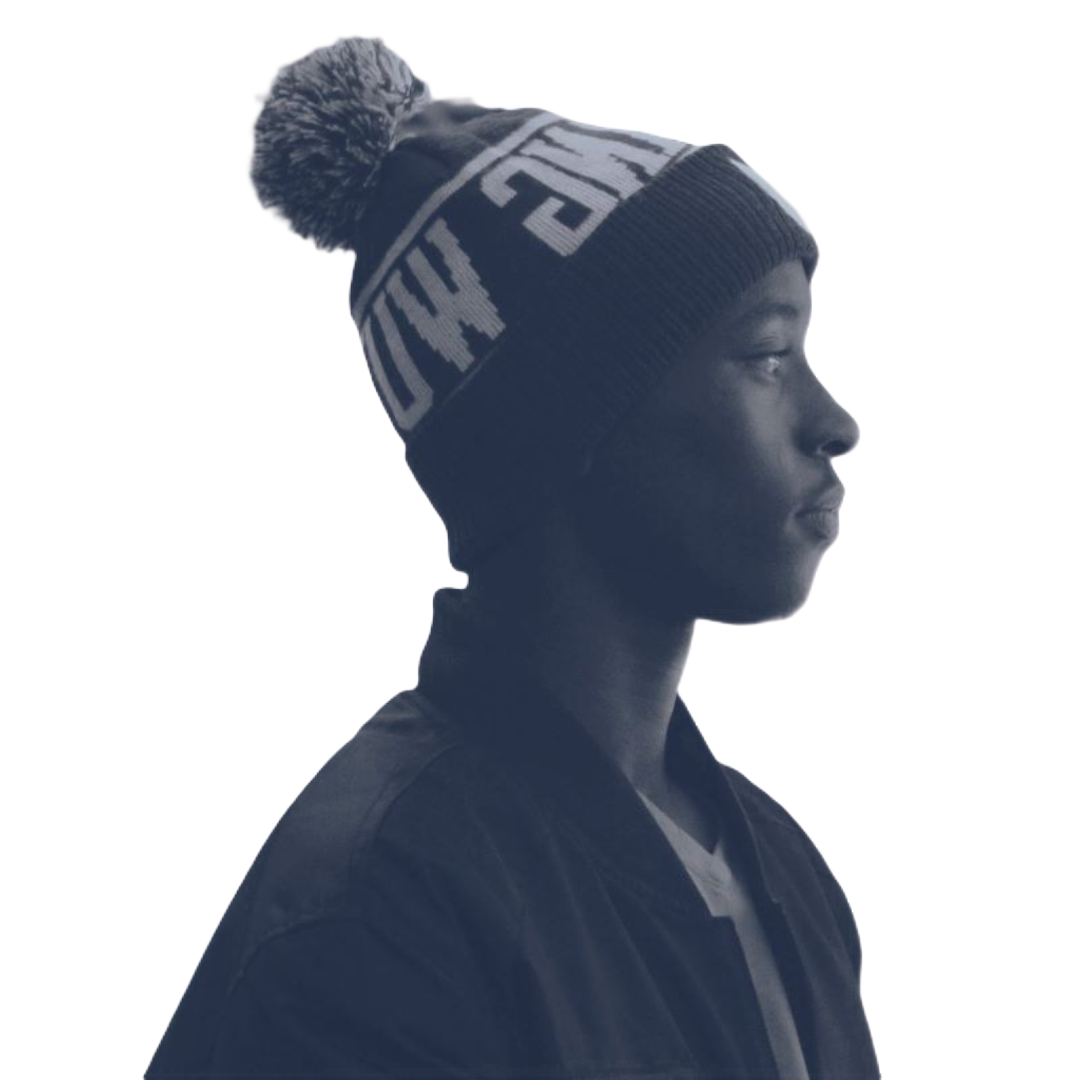
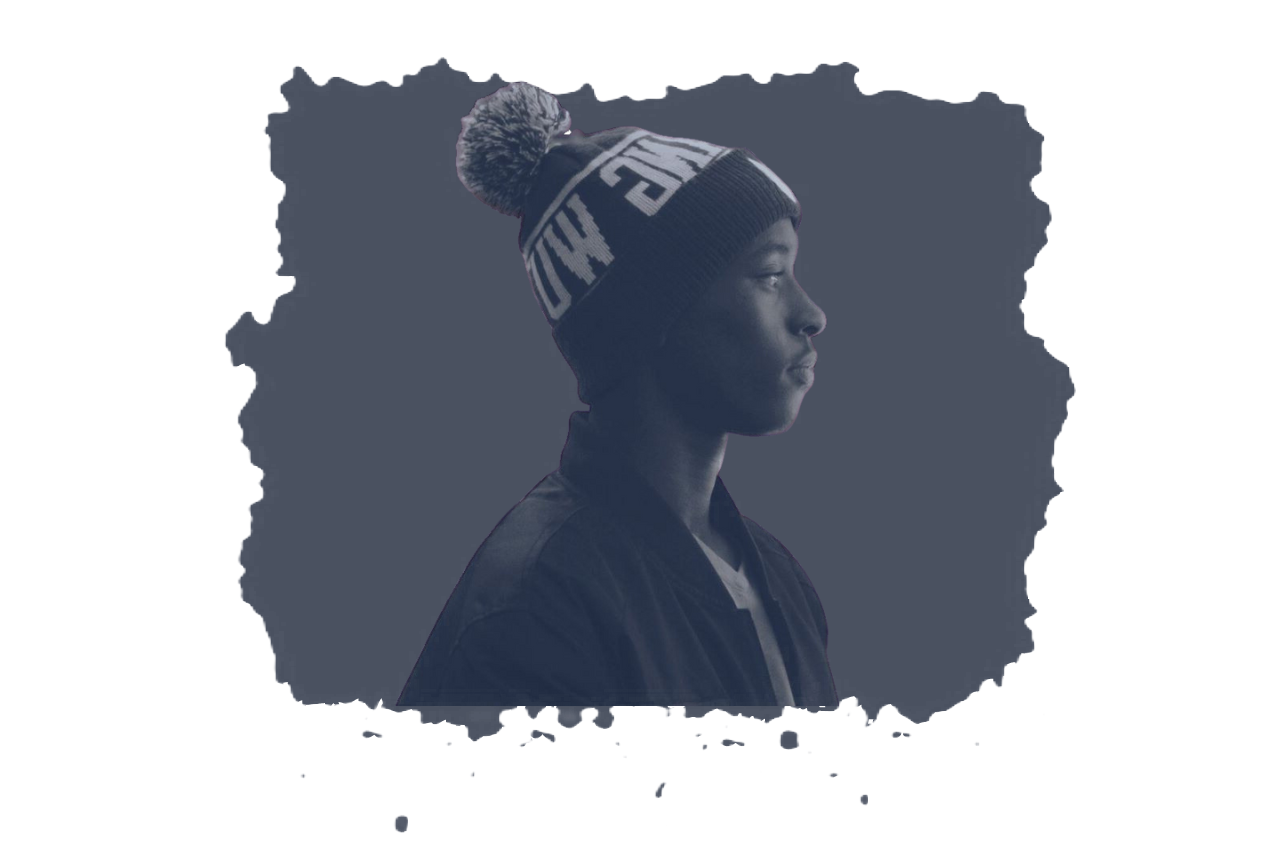
some new code

diff --git a/index.html b/index.html
@@ -61,7 +61,7 @@
         <h1 class="title">About Me</h1>
         <div class="section-container">
             <div class="section__pic-container">
-                <img src="assets/kariko.png" alt="Profile Pictire" 
+                <img src="assets/about.png" alt="Profile Pictire" 
                 class="about-pic">
             </div>
             <div class="about-details-container">

diff --git a/style.css b/style.css
@@ -157,6 +157,7 @@ section{
 
 .section__pic-container{
     display: flex;
+    justify-content: center;
     height: 400px;
     width: 400px;
     margin: auto o;
